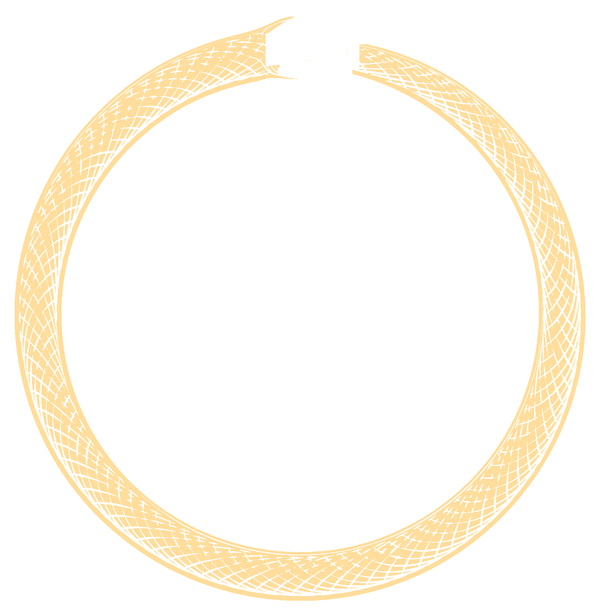
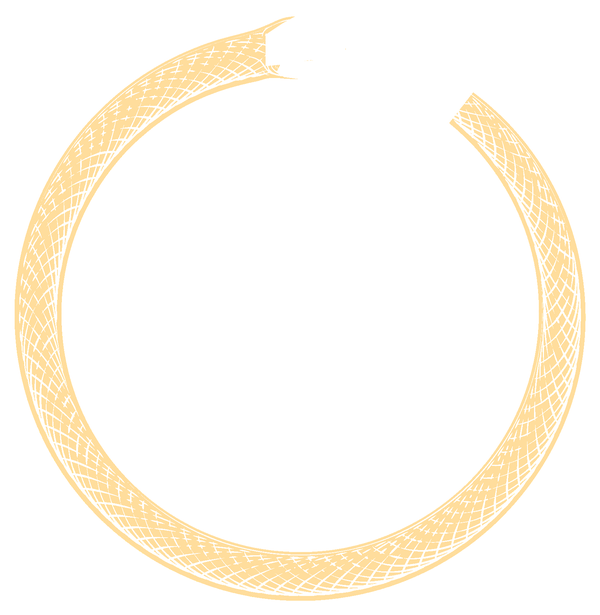
Ouroboros: full serpent with tail chases and bites its own tail; remove stray mark at snout
Claude-Session: https://claude.ai/code/session_01U3qNVJzYKNiHQsjiGxyF3P

Changed region(s): [[0.57, 0.0618, 0.78, 0.2163]]

diff --git a/index.html b/index.html
@@ -62,30 +62,32 @@ nav a:hover{opacity:1;text-decoration:underline;text-underline-offset:5px}
 .seal{display:grid;justify-items:start;gap:28px}
 .seal-anim{position:relative;width:min(300px,62vw);aspect-ratio:878/900}
 .seal-anim img{position:absolute;inset:0;width:100%;height:100%}
-/* Ouroboros: the serpent slithers out head-first and circles once clockwise with its body trailing,
-   opening and closing its jaw as it goes, then bites its own tail. One progress value (--p) drives the
-   rotation and the visible body length together, so the tail end stays pinned at the mouth. */
+/* Ouroboros: a complete serpent, tail and all, chases its own tail clockwise around the monogram,
+   snapping its jaw as it goes, and bites down when it catches it. One progress value (--p) drives
+   everything: the head turns a full circle while the tail trails behind and is slowly caught.
+   Geometry (degrees from the top, clockwise): the mouth sits at 10deg; the tail segment is the last
+   28deg of body (10..38deg) plus the tail tip; the body behind the head grows from 150deg to 332deg,
+   and the tail segment rides at its trailing end, offset by 182deg at the start and 0 at the end. */
 @property --p{syntax:'<number>';inherits:true;initial-value:1}
 .seal-anim .snake{position:absolute;inset:0;--p:1;transform-origin:49.94% 51.06%;transform:rotate(calc((var(--p) - 1) * 360deg));
-  animation:ouroboros 3.8s cubic-bezier(.42,.04,.22,1) .3s both,snake-in .5s ease .3s both;will-change:transform}
+  animation:ouroboros 4.2s cubic-bezier(.45,.05,.3,1) .3s both,snake-in .6s ease .3s both;will-change:transform}
 .seal-anim .snake img{position:absolute;inset:0;width:100%;height:100%}
-.seal-anim .body{-webkit-mask-image:conic-gradient(from calc(10deg - var(--p) * 360deg) at 49.94% 51.06%,#000 calc(var(--p) * 360deg),transparent 0);
-  mask-image:conic-gradient(from calc(10deg - var(--p) * 360deg) at 49.94% 51.06%,#000 calc(var(--p) * 360deg),transparent 0)}
-.seal-anim .jaw{transform-origin:46.7% 10.66%;animation:chomp 3.8s linear .3s both}
-.seal-anim .tail{animation:bite 3.8s linear .3s both}
+.seal-anim .body{-webkit-mask-image:conic-gradient(from calc(10deg - 150deg - 182deg * var(--p)) at 49.94% 51.06%,#000 calc(150deg + 182deg * var(--p)),transparent 0);
+  mask-image:conic-gradient(from calc(10deg - 150deg - 182deg * var(--p)) at 49.94% 51.06%,#000 calc(150deg + 182deg * var(--p)),transparent 0)}
+.seal-anim .tail{transform-origin:49.94% 51.06%;transform:rotate(calc((1 - var(--p)) * 182deg))}
+.seal-anim .jaw{transform-origin:46.7% 10.66%;animation:chomp 4.2s linear .3s both}
 @keyframes ouroboros{from{--p:0}to{--p:1}}
 @keyframes snake-in{from{opacity:0}to{opacity:1}}
 @keyframes chomp{
   0%{transform:rotate(-16deg);animation-timing-function:ease-in-out}
-  13%{transform:rotate(0deg);animation-timing-function:ease-in-out}
-  26%{transform:rotate(-16deg);animation-timing-function:ease-in-out}
-  40%{transform:rotate(0deg);animation-timing-function:ease-in-out}
-  54%{transform:rotate(-16deg);animation-timing-function:ease-in-out}
-  68%{transform:rotate(0deg);animation-timing-function:ease-in-out}
-  80%{transform:rotate(-16deg);animation-timing-function:ease-out}
-  92%{transform:rotate(7deg);animation-timing-function:ease-in}
+  12%{transform:rotate(0deg);animation-timing-function:ease-in-out}
+  24%{transform:rotate(-16deg);animation-timing-function:ease-in-out}
+  37%{transform:rotate(0deg);animation-timing-function:ease-in-out}
+  50%{transform:rotate(-16deg);animation-timing-function:ease-in-out}
+  63%{transform:rotate(0deg);animation-timing-function:ease-in-out}
+  75%{transform:rotate(-16deg);animation-timing-function:ease-out}
+  88%{transform:rotate(8deg);animation-timing-function:ease-in}
   100%{transform:rotate(0deg)}}
-@keyframes bite{0%,94%{opacity:0}98%,100%{opacity:1}}
 .names{font-family:var(--display);font-weight:400;font-size:clamp(44px,6vw,84px);line-height:.95;margin:0;letter-spacing:-.015em}
 .names .amp{font-style:italic;color:var(--gold-lt);font-size:.8em;padding:0 .08em}
 .roman{font-family:var(--display);letter-spacing:.24em;font-size:15px;color:var(--gold-lt)}
@@ -242,7 +244,7 @@ footer .roman{opacity:1}
   .venue{padding:24px}
   .count{gap:20px}
 }
-@media (prefers-reduced-motion:reduce){*{transition:none!important}.seal-anim .snake,.seal-anim .jaw,.seal-anim .tail{animation:none}}
+@media (prefers-reduced-motion:reduce){*{transition:none!important}.seal-anim .snake,.seal-anim .jaw{animation:none}}
 </style>
 </head>
 <body>
